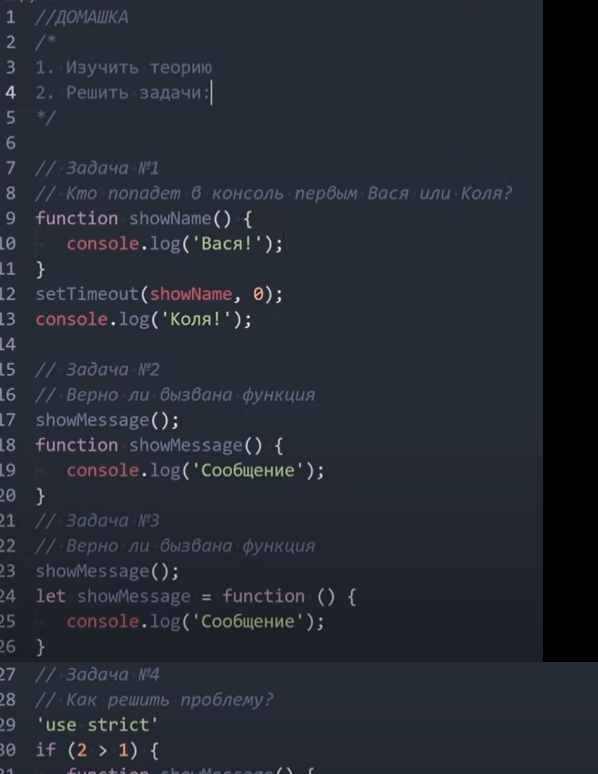
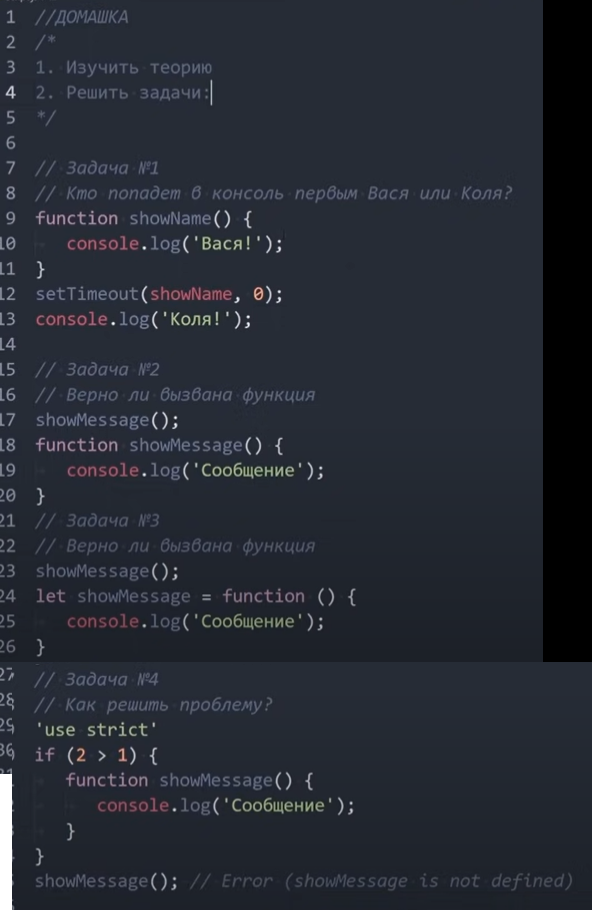
feat: les24 done

diff --git a/hw24/index.html b/hw24/index.html
@@ -30,8 +30,13 @@
 					<div class="les24-1__block-answer">
 						<p class="les24-1__text text">Відповіді:</p>
 						<ul class="les24-1__answers answers">
-							<li class="answers__item answers__item--badly"></li>
-							<li class="answers__item answers__item--error"></li>
+							<li class="answers__item answers__item--badly">Коля</li>
+							<li class="answers__item answers__item--error">Використання можливе. Буде працювати</li>
+							<li class="answers__item answers__item--error">НІ. Не спрацює </li>
+							<li class="answers__item ">
+								<button class="accordion">Ex. 4</button>
+								<div class="panel"><img src="img/24ex4.png" alt="done"></div>
+							</li>
 
 						</ul>
 					</div>
@@ -42,7 +47,7 @@
 				<div class="les24-2__container">
 					<h2 class="les24-2__title title">Массивы в JAVASCRIPT. Методы массивов. Редактирование, поиск, сортировка. Уроки JavaScript с нуля</h2>
 					<div class="les24-2__img img">
-						<img src="img/24-2.png" alt="if-else">
+						<img src="img/JS24-2.png" alt="if-else">
 					</div>
 					<div class="les24-2__block-answer">
 						<p class="les24-2__text text">Відповіді:</p>
@@ -60,11 +65,11 @@
 				<div class="les24-3__container">
 					<h2 class="les24-3__title title">JavaScript Document object model (DOM) за час. Изменение HTML CSS. Атрибуты и свойства. Окружение.</h2>
 					<div class="les24-3__img img">
-						<img src="img/24-3.png" alt="if-else">
+						<img src="img/JS24-3.png" alt="if-else">
 					</div>
 					<div class="les24-3__block-answer">
 						<p class="les24-3__text text">Рішення:</p>
-						<ul class="les24-3__answers answers">
+						<!--<ul class="les24-3__answers answers">
 							<li class="answers__item ">
 								<button class="accordion">Ex. 1</button>
 								<div class="panel"><img src="img/24-3ex1.png" alt="done"></div>
@@ -84,20 +89,20 @@
 								<button class="accordion">Ex. 4</button>
 								<div class="panel"><img src="img/24-3ex4.png" alt="done"></div>
 							</li>
-						</ul>
+						</ul>-->
 					</div>
 				</div>
 				<a href="https://www.youtube.com/watch?v=DuWyc76lYC4&list=PLM6XATa8CAG7DDIBjNVd78Fv5Ueo930IV&index=18" hidden>hidden link to lesson</a>
 			</article>
-			<article class="les24-5">
+			<article class="les24-4">
 				<div class="les24-5__container">
 					<h2 class="les24-5__title title">JavaScript размеры прокрутка и координаты элементов на странице и окна браузера.</h2>
 					<div class="les24-5__img img">
-						<img src="img/24-4.png" alt="numbers">
+						<img src="img/JS24-4.png" alt="numbers">
 					</div>
 					<div class="les24-5__block-answer">
 						<p class="les24-5__text text">Рішення:</p>
-						<ul class="les24-5__answers answers">
+						<!--<ul class="les24-5__answers answers">
 							<li class="answers__item ">
 								<button class="accordion">Ex. 1</button>
 								<div class="panel"><img src="img/7ex1.png" alt="done"></div>
@@ -118,7 +123,7 @@
 								<button class="accordion">Ex. 5</button>
 								<div class="panel"><img src="img/24-4ex5.png" alt="done"></div>
 							</li>
-						</ul>
+						</ul>-->
 					</div>
 				</div>
 				<a href="https://www.youtube.com/watch?v=TEeKr2ON66A&list=PLM6XATa8CAG7DDIBjNVd78Fv5Ueo930IV&index=18" hidden>hidden link to lesson</a>
@@ -128,7 +133,7 @@
 				<div class="les24-5__container">
 					<h2 class="les24-5__title title">Практикуємо самостійно</h2>
 					<div class="les24-5__img img">
-						<img src="img/24-5.png" alt="numbers">
+						<!--<img src="img/JS24-5.png" alt="numbers">-->
 					</div>
 				</div>
 			</article>

diff --git a/hw24/js/script.js b/hw24/js/script.js
@@ -1,122 +1,12 @@
 'use strict'
+//ex24-4
 /*
-let a = 0;
- 
-console.log( 0 && 58 || 18 && !!a++);
-console.log(a);
-console.log(!!--a);
-console.log(a);
+let showMessage = () => {
+	console.log('Message');
+}
+if (2>1) {
+	showMessage();
+}
+showMessage();
 */
 
-
-//if (10 > 8) {
-//	console.log('1');
-//} else if (2 > 1) {
-//	console.log('2');
-//}
-
-//console.log(!!false && 11 || !!'1' && 18);
-
-//let name = 0;
-//console.log(name ?? "щось");
-
-//6 LES
-
-
-//lesson 7
-console.log('		lesson 7');
-console.log('	Циклы FOR и WHILE в JavaScript. Директивы break и continue');
-//lesson 7
-//
-
-//1.1
-		//for (let i = 1; i < 5; i++) {
-for (let i = 4; i < 5; i++) {
-	let counter = i;
-	console.log(counter);
-}
-//1.2
-	//let printTo4 = 1;
-	//while (printTo4 < 5) {
-	//	console.log(printTo4);
-	//	printTo4++;
-	//}
-
-//2 
-		//let num = 8;
-let num = 1;
-while (num) {  //work if true 0-false
-	console.log('while: ' + num);
-	--num;
-}
-//3
-		//let numWhile = 0;
-let numWhile = 2;
-while (numWhile < 3) { 
-	console.log('numWhile: ' + numWhile);
-	numWhile++;
-}
-//4
-MarkFor: for (let num = 0; num < 2; num++) {
-	for (let size = 0; size < 3; size++) {
-		console.log(size);
-			if (size == 1) {
-				break MarkFor;
-			}
-	}
-}
-//=====================================================================
-
-//lesson 8
-// https://www.youtube.com/watch?v=tiHvPGOX5yc
-console.log('		lesson 8');
-console.log('	Числа в JAVASCRIPT. Тип данных number. Работа с числами. проблема неточных вычислений.');
-//lesson 8
-
-//1    100.499999999 + Number.EPSILON = 100.5000000000000001
-			// *додавати завжби коли хочемо укруглення часток в більшу сторону !.?
-let numOne = Math.round((1.005 + Number.EPSILON)* 100) / 100;
-console.log(numOne);
-
-//2 
-let value = '325.22px';
-console.log(parseFloat(value));
-
-//3 
-let valueNan = 58 + "string";
-if (isNaN(valueNan)) {
-	console.log('it\'s NaN');
-}
-
-				//4 
-console.log(Math.max(10, 58, 39, -150, 0));
-
-				//5 
-console.log(Math.floor(58.285));
-
-
-//=====================================================================
-
-//lesson 9
-// https://www.youtube.com/watch?v=jc5Upe8xIN0
-console.log('		lesson 9');
-console.log('	Строки в JAVASCRIPT. Тип данных string. Типы кавычек, поиск, регистр и получение подстроки.');
-//lesson 9
-
-//2
-let text = 'фрилансер';
-console.log(text[text.indexOf('н')]);
-
-//4
-console.log(text.toUpperCase());
-
-//5
-console.log(text.includes("лан"));
-
-let arrChar = [];
-for (let char of text) {
-	if (char === 'л') { arrChar.push(char); }
-	else if (char === 'а') {arrChar.push(char);}
-	else if (char === 'н') {arrChar.push(char);}
-}
-console.log(arrChar.join(''));
